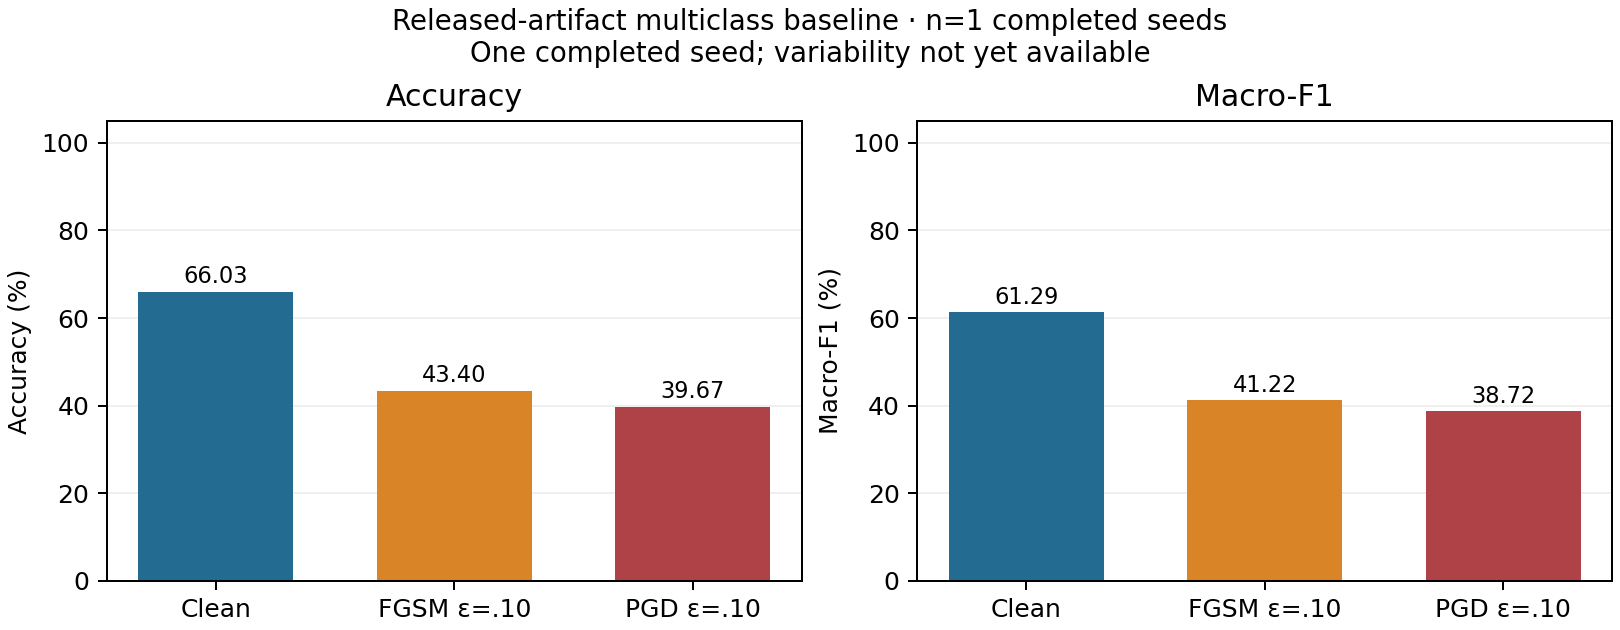
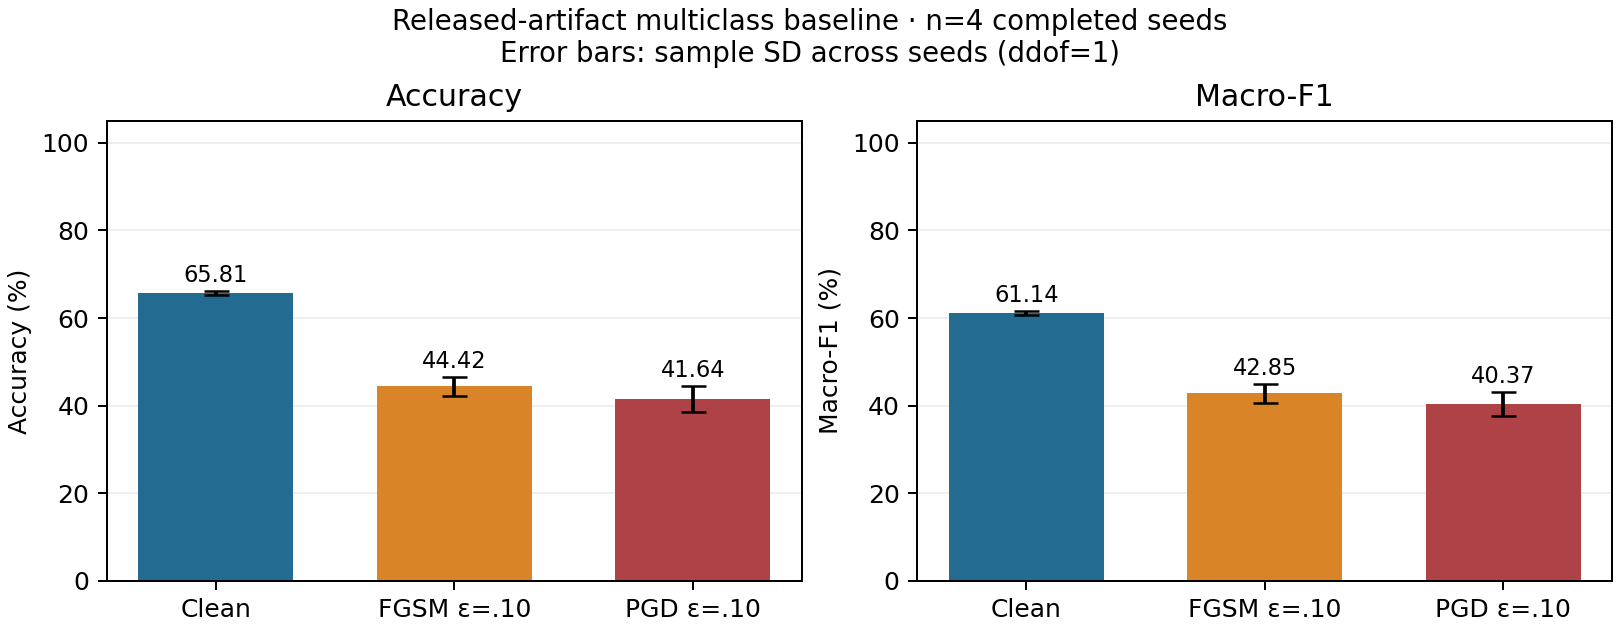
Complete four-seed Milestone 1 baseline, measured report and review summaries

diff --git a/research/milestone1_report.py b/research/milestone1_report.py
@@ -85,7 +85,7 @@ def build(run, output):
             means = rows["mean"].to_numpy(dtype=float)*100
             errors = pd.to_numeric(rows.sample_std, errors="coerce").fillna(0).to_numpy(dtype=float)*100
             ax.bar(["Clean", "FGSM ε=.10", "PGD ε=.10"], means, yerr=errors if len(complete)>1 else None, capsize=5, color=colors, width=.65)
-            for i, value in enumerate(means): ax.text(i, value+2, f"{value:.2f}", ha="center", fontsize=9)
+            for i, value in enumerate(means): ax.text(i, value+(errors[i] if len(complete)>1 else 0)+2, f"{value:.2f}", ha="center", fontsize=9)
             ax.set(ylim=(0, 105), ylabel=title+" (%)", title=title)
             ax.grid(axis="y", alpha=.2)
             ax.set_axisbelow(True)
@@ -108,7 +108,7 @@ def build(run, output):
         ["4. Reproduce published clean results", "Unresolved / not demonstrated", "Numerical reproduction under matched conditions has NOT been established"],
         ["5. Provided FGSM and PGD evaluation", "Completed with evidence" if complete == expected else "Not completed for all required seeds", "Same saved final checkpoint and row IDs; unchanged upstream attack functions"],
         ["6. Compare with published results", "Completed with documented limitation" if complete else "Not completed: awaiting first measured seed", "Descriptive comparison only; potentially different experiments"],
-        ["7. Explain architecture, pipeline, attacks and validity", "Completed with evidence", "Explanations and executed configuration below"]
+        ["7. Explain architecture, pipeline, attacks and validity", "Completed with evidence", "Explanations and executed configuration in this report"]
     ]
     source = ROOT.parent / "outputs/milestone1-reference-review/evidence/PAVE-source.pdf"
[1 lines of base64/hex data omitted]
@@ -273,6 +273,9 @@ during attacks. Saved prediction coverage, confusion matrices, per-class support
 checkpoint identity and artifact checksums are verified. A process exit code alone
 is not accepted as completion. Raw logs and any unfinished checkpoint/status files
 remain available; incomplete work is visible in `completion.json`.
+No completed seed reported a training failure, failed attack sanity check or
+incomplete output check. A report-only pandas formatting warning was corrected;
+no change to the inherited training or attack algorithms was needed.
 
 {attack_note}
 
@@ -332,7 +335,8 @@ Run from `{ROOT}` using its existing environment:
 ```powershell
 .\\.venv\\Scripts\\python.exe -B -m research.artifact_baseline --run-dir runs/milestone1-artifact-full --resume
 .\\.venv\\Scripts\\python.exe -B -m research.artifact_baseline --run-dir runs/milestone1-artifact-full --verify-only
-.\\.venv\\Scripts\\python.exe -B -m research.milestone1_report --run-dir runs/milestone1-artifact-full --output reports/milestone1-artifact --export ../outputs/milestone1-practical-review.zip
+$reviewZip = '..\\outputs\\milestone1-practical-review-' + (Get-Date -Format 'yyyyMMdd-HHmmss') + '.zip'
+.\\.venv\\Scripts\\python.exe -B -m research.milestone1_report --run-dir runs/milestone1-artifact-full --output reports/milestone1-artifact --export $reviewZip
 ```
 
 The first command reuses verified completed seeds and resumes the last complete
@@ -340,6 +344,9 @@ epoch of incomplete seeds, restoring Adam/RNG state. It never reduces the full
 budget to smoke. For an independent rerun, use a new run directory with the same
 frozen config. The unchanged pinned checkout and hashed CSV are required; the
 existing setup instructions explain restoring those excluded dependencies.
+Alternatively, `.\\.venv\\Scripts\\python.exe -B scripts/complete_milestone1.py`
+resumes outstanding work, validates all four seeds and creates a fresh review ZIP.
+Exports preserve existing ZIPs; the timestamp above avoids an output collision.
 
 Large data/checkpoints, environments and package caches are excluded from the
 review ZIP. Original checkpoint/preprocessing/evaluation files remain under
@@ -381,7 +388,7 @@ def export_package(run, output, destination):
                     dest = stage / "results" / folder.name / name
                     dest.parent.mkdir(parents=True, exist_ok=True)
                     shutil.copy2(path, dest)
-        references = ["research/artifact_baseline.py", "research/milestone1.py", "research/milestone1_report.py", "configs/milestone1_artifact_full.json", "configs/milestone1_target.json", "docs/MILESTONE1_REFERENCE.md", "README.md", "PROGRESS.md"]
+        references = ["research/artifact_baseline.py", "research/milestone1.py", "research/milestone1_report.py", "scripts/complete_milestone1.py", "configs/milestone1_artifact_full.json", "configs/milestone1_target.json", "docs/MILESTONE1_REFERENCE.md", "README.md", "PROGRESS.md"]
         for name in references:
             if not (source / name).is_file():
                 raise ValueError(f"Referenced project file missing from source export: {name}; stage/commit new source first")

diff --git a/reports/milestone1-artifact/REPORT.md b/reports/milestone1-artifact/REPORT.md
@@ -9,7 +9,7 @@ clean (unperturbed), FGSM and PGD inputs, and document the attempted paper compa
 Clean includes unperturbed examples from **all 27 classes**, including malicious
 traffic. Clean does not mean benign.
 
-INCOMPLETE: completed seeds [1]; outstanding [7, 13, 29]. No unfinished run is counted as a result.
+Four full seeds completed and verified.
 
 Exact Table 4 reproduction remains unresolved. This does not block the authorized
 artifact attempt. No quantization, QAT, adversarial training, transfer experiment,
@@ -129,6 +129,9 @@ from the clean input without random initialization. Neither upstream function
 clips to feature-domain boundaries or projects to protocol-valid traffic. Epsilon
 .10 is in StandardScaler units, not ten percent of each raw feature's range.
 Model parameters are unchanged during evaluation; input gradients are enabled.
+Perturbation checks permit 1e-5 float32 roundoff, and retain each condition's
+measured maximum. An observed maximum such as .10000038 is rounding at epsilon
+.10, not an intentional larger attack budget.
 
 - Accuracy: proportion of correctly classified evaluated rows.
 - Macro-F1: arithmetic mean of all 27 per-class F1 values, zero_division=0.
@@ -136,6 +139,8 @@ Model parameters are unchanged during evaluation; input gradients are enabled.
 - MCC: sklearn multiclass Matthews correlation.
 - Untargeted ASR (%): 100 × newly incorrect examples among clean-correct examples
   divided by the number of clean-correct examples. Empty denominator → null.
+  A wrong attack-family prediction counts; this is not a targeted
+  malicious-to-benign evasion rate.
 - Upstream `pave_audit._asr` is saved separately; its nonempty formula agrees,
   while its empty-denominator fallback returns zero. Prediction-change rate and
   total adversarial error are also separate diagnostics, not paper-equivalent ASR.
@@ -149,9 +154,9 @@ than two seeds cannot establish variability.
 
 | Condition | Seeds | Accuracy (%) | Macro-F1 (%) | Weighted-F1 (%) | MCC | ASR (%) |
 | --- | --- | --- | --- | --- | --- | --- |
-| Clean | 1 | 66.033 (SD unavailable) | 61.289 (SD unavailable) | 61.295 (SD unavailable) | 0.653 (SD unavailable) | 0.000 (SD unavailable) |
-| FGSM | 1 | 43.400 (SD unavailable) | 41.218 (SD unavailable) | 41.215 (SD unavailable) | 0.414 (SD unavailable) | 34.276 (SD unavailable) |
-| PGD | 1 | 39.667 (SD unavailable) | 38.724 (SD unavailable) | 38.719 (SD unavailable) | 0.376 (SD unavailable) | 39.929 (SD unavailable) |
+| Clean | 4 | 65.808 ± 0.428 | 61.140 ± 0.423 | 61.148 ± 0.407 | 0.650 ± 0.004 | 0.000 ± 0.000 |
+| FGSM | 4 | 44.417 ± 2.119 | 42.850 ± 2.145 | 42.860 ± 2.157 | 0.424 ± 0.022 | 33.739 ± 4.616 |
+| PGD | 4 | 41.642 ± 2.967 | 40.372 ± 2.755 | 40.378 ± 2.773 | 0.396 ± 0.031 | 36.699 ± 4.942 |
 
 Only completed, verified full-budget seeds enter this table and the figure.
 `per_seed.csv` contains individual measurements; `summary.csv` contains unrounded
@@ -159,14 +164,25 @@ means and sample SD. Missing seeds are not filled with zeros or smoke results.
 
 ![Measured clean/FGSM/PGD results](results.png)
 
-Completed-seed training time: **1293.75 seconds**. Completed evaluation
-time: **94.99 seconds**. These are measured accumulated training and
+Completed-seed training time: **4397.54 seconds**. Completed evaluation
+time: **369.76 seconds**. These are measured accumulated training and
 evaluation durations, not estimates of uncompleted seeds; runtime records also
 include per-invocation loading time and sampled peak RSS. Epoch checkpoints retain
 progress if the session ends; `completion.json` lists outstanding work.
 Wall-clock span from initial run setup to the last completed seed is
-1402 seconds;
+4848 seconds;
 it includes loading, verification and any idle gaps between sequential launches.
+
+| Seed | Training (min) | Evaluation (min) | Peak process RSS (GiB) | Min system available (MiB) |
+| --- | --- | --- | --- | --- |
+| 1 | 21.56 | 1.58 | 1.45 | 58.7 |
+| 7 | 16.96 | 1.56 | 1.49 | 108.9 |
+| 13 | 17.57 | 1.55 | 1.44 | 186.0 |
+| 29 | 17.19 | 1.46 | 1.38 | 243.0 |
+
+Memory values are sampled, not exact allocation peaks. System-available memory
+includes the effect of other applications; it is distinct from this process's RSS.
+The run uses one training process, two CPU threads and evaluation batches of 32.
 
 ## Verification and failures
 
@@ -179,6 +195,9 @@ during attacks. Saved prediction coverage, confusion matrices, per-class support
 checkpoint identity and artifact checksums are verified. A process exit code alone
 is not accepted as completion. Raw logs and any unfinished checkpoint/status files
 remain available; incomplete work is visible in `completion.json`.
+No completed seed reported a training failure, failed attack sanity check or
+incomplete output check. A report-only pandas formatting warning was corrected;
+no change to the inherited training or attack algorithms was needed.
 
 No completed seed has PGD accuracy higher than FGSM accuracy. This ordering check alone does not establish a strongest-attack or worst-case robustness guarantee.
 
@@ -186,9 +205,9 @@ No completed seed has PGD accuracy higher than FGSM accuracy. This ordering chec
 
 | Condition | Paper accuracy (%) | Our accuracy (%) | Descriptive difference (pp) | Paper F1 (averaging unverified) | Paper ASR (denominator unverified) |
 | --- | --- | --- | --- | --- | --- |
-| Clean | 98.68 | 66.033 | -32.647 | 98.63 | — |
-| FGSM | 98.19 | 43.400 | -54.790 | 97.95 | 0.81 |
-| PGD | 98.19 | 39.667 | -58.523 | not reported | 0.81 |
+| Clean | 98.68 | 65.808 | -32.872 | 98.63 | — |
+| FGSM | 98.19 | 44.417 | -53.773 | 97.95 | 0.81 |
+| PGD | 98.19 | 41.642 | -56.548 | not reported | 0.81 |
 
 Accuracy differences above are **descriptive differences between potentially
 different experiments**, not reproduction-error estimates. Paper F1 is not labelled
@@ -235,13 +254,13 @@ This report does not launch Milestone 2 or claim literal exact paper reproductio
 | --- | --- | --- |
 | 1. Clone PAVE; read README and paper | Completed with evidence | Pinned e73911b, full local PDF and previous reference investigation |
 | 2. Environment and processed CICIoT data | Completed with documented limitation | Hashed released 27-class balanced subset, not the raw 33-attack dataset composition |
-| 3. Standard Transformer multiclass pipeline | Not completed for all required seeds | Verified full-budget seeds: [1] |
+| 3. Standard Transformer multiclass pipeline | Completed with evidence | Verified full-budget seeds: [1, 7, 13, 29] |
 | 4. Reproduce published clean results | Unresolved / not demonstrated | Numerical reproduction under matched conditions has NOT been established |
-| 5. Provided FGSM and PGD evaluation | Not completed for all required seeds | Same saved final checkpoint and row IDs; unchanged upstream attack functions |
+| 5. Provided FGSM and PGD evaluation | Completed with evidence | Same saved final checkpoint and row IDs; unchanged upstream attack functions |
 | 6. Compare with published results | Completed with documented limitation | Descriptive comparison only; potentially different experiments |
-| 7. Explain architecture, pipeline, attacks and validity | Completed with evidence | Explanations and executed configuration below |
+| 7. Explain architecture, pipeline, attacks and validity | Completed with evidence | Explanations and executed configuration in this report |
 
-The practical four-seed baseline package is NOT ready as a completed four-seed package; resume outstanding work.
+The practical four-seed baseline package is ready for review, with the published-result requirement explicitly unresolved.
 
 ## Exact local commands and excluded artifacts
 
@@ -250,7 +269,8 @@ Run from `C:\Users\loran\Documents\Codex\2026-10-17\files-pasted-by-the-user-you
 ```powershell
 .\.venv\Scripts\python.exe -B -m research.artifact_baseline --run-dir runs/milestone1-artifact-full --resume
 .\.venv\Scripts\python.exe -B -m research.artifact_baseline --run-dir runs/milestone1-artifact-full --verify-only
-.\.venv\Scripts\python.exe -B -m research.milestone1_report --run-dir runs/milestone1-artifact-full --output reports/milestone1-artifact --export ../outputs/milestone1-practical-review.zip
+$reviewZip = '..\outputs\milestone1-practical-review-' + (Get-Date -Format 'yyyyMMdd-HHmmss') + '.zip'
+.\.venv\Scripts\python.exe -B -m research.milestone1_report --run-dir runs/milestone1-artifact-full --output reports/milestone1-artifact --export $reviewZip
 ```
 
 The first command reuses verified completed seeds and resumes the last complete
@@ -258,6 +278,9 @@ epoch of incomplete seeds, restoring Adam/RNG state. It never reduces the full
 budget to smoke. For an independent rerun, use a new run directory with the same
 frozen config. The unchanged pinned checkout and hashed CSV are required; the
 existing setup instructions explain restoring those excluded dependencies.
+Alternatively, `.\.venv\Scripts\python.exe -B scripts/complete_milestone1.py`
+resumes outstanding work, validates all four seeds and creates a fresh review ZIP.
+Exports preserve existing ZIPs; the timestamp above avoids an output collision.
 
 Large data/checkpoints, environments and package caches are excluded from the
 review ZIP. Original checkpoint/preprocessing/evaluation files remain under

diff --git a/PROGRESS.md b/PROGRESS.md
@@ -1,5 +1,42 @@
 # Local progress and resume
 
+## Verified practical Milestone 1 package (2026-10-20)
+
+**Released-artifact multiclass baseline and documented paper-reproduction attempt.**
+
+- All four predetermined seeds **1, 7, 13, 29** completed and independently
+  validated: full 29,997-row processed CSV, 23,997 training rows per split,
+  15 epochs / 705 actual Adam updates per seed, final epoch only.
+- Clean/FGSM/PGD use the same saved checkpoint and 3,000 aligned validation
+  examples within each seed. There are 12 complete condition rows and 36,000
+  saved prediction rows; all 60 epoch checkpoints remain recoverable.
+- Mean ± sample SD (ddof=1), four seeds:
+  accuracy **65.8083 ± 0.4281 / 44.4167 ± 2.1188 / 41.6417 ± 2.9674%**;
+  macro-F1 **61.1401 ± 0.4226 / 42.8501 ± 2.1451 / 40.3725 ± 2.7549%**,
+  in clean / FGSM / PGD order. Weighted-F1, MCC, ASR, per-class scores and
+  confusion matrices are saved separately with explicit definitions.
+- Measured total training **4397.54s**, evaluation **369.76s**; initial run setup
+  to final completed seed **4848s (1h 20m 48s)**. No full training/evaluation or
+  attack sanity-check failures occurred. Six preflight tests passed; interrupted
+  training/resume is exactly equivalent on the test fixture. Duplicate completion
+  controllers are rejected by an OS lock. A report-only pandas warning was fixed.
+- Final report/figure/summaries: **reports/milestone1-artifact/**. Raw logs,
+  per-seed manifests, model/optimizer/RNG checkpoints, preprocessing, split IDs,
+  labels and predictions: **runs/milestone1-artifact-full/** (ignored by Git).
+- Every completed seed passes checkpoint reload prediction equivalence, actual
+  optimizer-step count, input-gradient/no-parameter-update checks, epsilon-zero
+  identity, finite recomputed metrics, confusion matrix/row alignment and file
+  integrity checks. Float32 perturbation tolerance is 1e-5; measured maxima saved.
+- The practical baseline package is **ready for review before Milestone 2**.
+  **Matched-condition numerical reproduction of Table 4 is NOT demonstrated**;
+  its mode, metric/seed provenance and data correspondence remain unresolved.
+  The report's official seven-item checklist preserves that unresolved requirement.
+- Everything remained local. Existing code, results, environments, commits and
+  the corrected research protocol are preserved; pinned upstream remains clean.
+  The user-owned untracked `IOT DL.zip` remains untouched and uncommitted.
+- No Milestone 2, quantization, QAT, adversarial training, transfers or ablations
+  were started. The execution history below is retained for provenance.
+
 ## Active released-artifact baseline execution (2026-10-20)
 
 The user now authorizes the full local FP32 multiclass baseline for replication
@@ -46,6 +83,15 @@ Exact Table 4 correspondence remains unresolved; the required claim is
 - The completion controller reused seed 1 and started seed 7 only after independent
   validation. Seeds 13 and 29 remain queued. Generated report/figure currently
   include completed seeds only; their completion.json is the authoritative count.
+- Seed 7 subsequently completed and verified: accuracy clean/FGSM/PGD =
+  65.1667% / 47.4333% / 46.0000%; macro-F1 =
+  60.5237% / 45.9685% / 44.3816%. Seed 13 has now started; seed 29 remains queued.
+  The report is rebuilt automatically after all four seeds validate; until then,
+  per-seed `status.json` and manifests are the live experimental evidence.
+- Seed 13 subsequently completed and verified: accuracy clean/FGSM/PGD =
+  66.0333% / 42.6000% / 41.0333%; macro-F1 =
+  61.2633% / 41.7114% / 39.9642%. Seed 29 is now training; three full seeds
+  are complete, but four-seed aggregation/review readiness is still pending.
 - No quantization, adversarial training, transfers, ablations or remote writes.
 
 The earlier execution-block entries below are historical and superseded by this

diff --git a/README.md b/README.md
@@ -1,5 +1,14 @@
 # PAVE Transformer robustness–efficiency study
 
+**Practical Milestone 1 baseline completed (2026-10-20):** four full seeds
+1, 7, 13, 29 are verified. Read the [course report](reports/milestone1-artifact/REPORT.md),
+[per-seed results](reports/milestone1-artifact/per_seed.csv),
+[mean/sample-SD results](reports/milestone1-artifact/summary.csv), and
+[measured figure](reports/milestone1-artifact/results.png).
+Accuracy is 65.81 ± 0.43% clean, 44.42 ± 2.12% FGSM and 41.64 ± 2.97% PGD.
+The practical package is ready for review; matched Table 4 reproduction remains
+unresolved. Milestone 2 has not started.
+
 **Current execution (2026-10-20):** the full local released-artifact multiclass
 baseline is authorized despite unresolved Table 4 correspondence. Frozen settings
 are in `configs/milestone1_artifact_full.json`; execute or resume sequential seeds:
